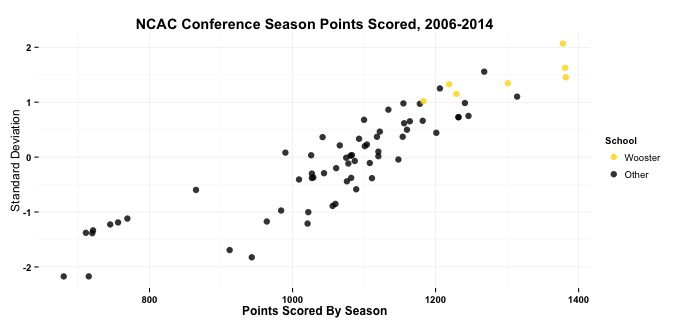
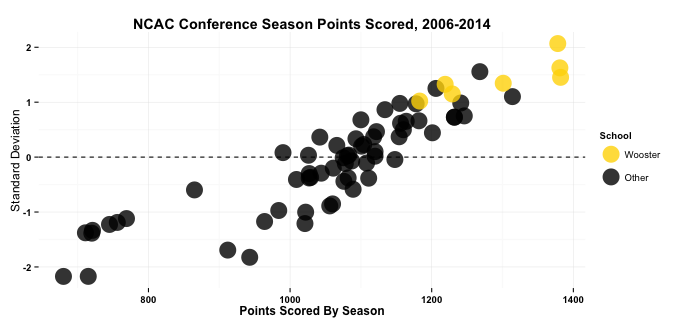
woo_basketball5
updated plots 2 and 3; made a html table with woo’s division iii
basketball tournament results

diff --git a/Wooster Basketball/div3table.html b/Wooster Basketball/div3table.html
@@ -1,0 +1,43 @@
+<!-- Code for Wordpress editor -->
+<!-- College of Wooster Division III men's basketball tournament results -->
+<!-- http://www.jamesclarence.com -->
+<html>
+	<table>
+		<tr>
+			<th>Year</th>
+			<th>Tournament Result</th>
+		</tr>
+		<tr>
+			<td>2007</td>
+			<td>Final Four</td>
+		</tr>
+		<tr>
+			<td>2008</td>
+			<td>First Round</td>
+		</tr>
+		<tr>
+			<td>2009</td>
+			<td>Second Round</td>
+		</tr>
+		<tr>
+			<td>2010</td>
+			<td>Third Round</td>
+		</tr>
+		<tr>
+			<td>2011</td>
+			<td>Runner Up</td>
+		</tr>
+		<tr>
+			<td>2012</td>
+			<td>Sweet Sixteen</td>
+		</tr>
+		<tr>
+			<td>2013</td>
+			<td>Third Round</td>
+		</tr>
+		<tr>
+			<td>2014</td>
+			<td>Second Round</td>
+		</tr>
+	</table>
+</html>
